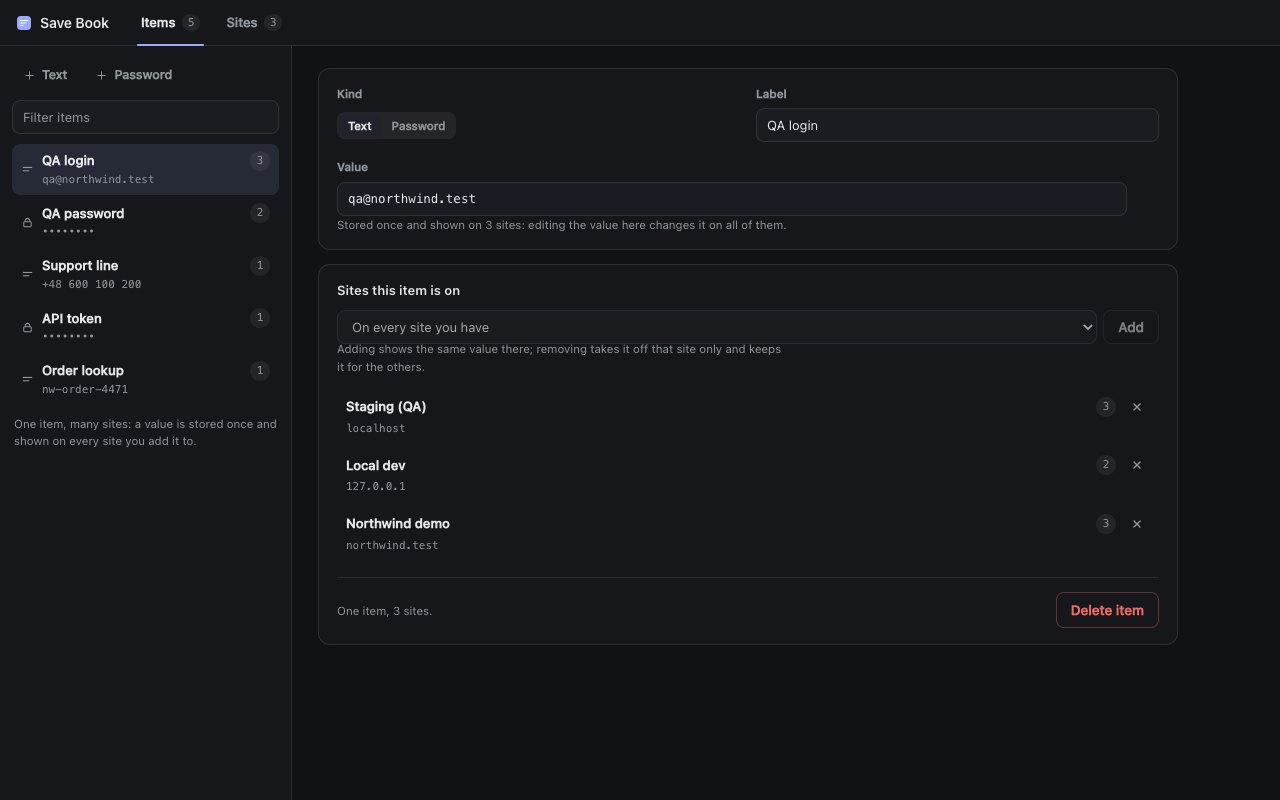
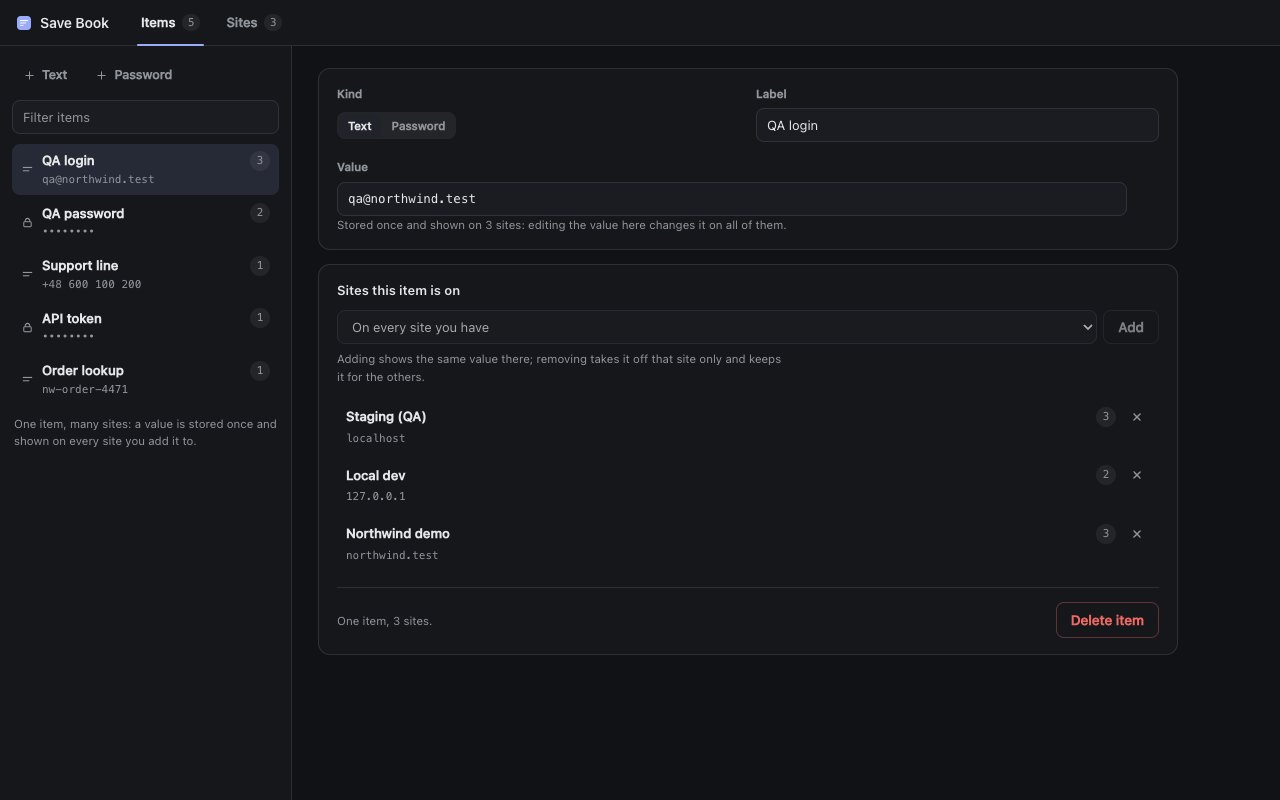
fix(options): give the Items panel's note the gap the Sites panel has
The note under "Sites this item is on" carried a -4px top margin meant to sit
against a section heading's own 10px margin — but there it follows the picker
row instead, so the negative margin pulled the text onto the select's border.
The margin is now scoped: -4px under a heading (Sites, 6px net), +6px under a
control row (Items, 6px net). Measured on the live page, both panels now read
the same rhythm around the note: 6px above it, 12px below it.

Changed region(s): [[0.25, 0.4375, 0.625, 0.7188], [0.8125, 0.75, 0.9062, 0.8125], [0.25, 0.75, 0.3438, 0.7812]]

diff --git a/src/options/options.css b/src/options/options.css
@@ -400,9 +400,20 @@ code {
   line-height: 1.5;
 }
 
+/* A panel's explanatory note sits one gap below whatever it follows: the section heading pulls it
+   in tight (the heading's own 10px margin makes 6px), and a control row gets the same 6px by
+   number, because a bordered field leaves less air than a heading's baseline does. */
 .section-note {
-  margin: -4px 0 12px;
+  margin: 0 0 12px;
   max-width: 62ch;
+}
+
+.section-head + .section-note {
+  margin-top: -4px;
+}
+
+.add + .section-note {
+  margin-top: 6px;
 }
 
 .section-head {
